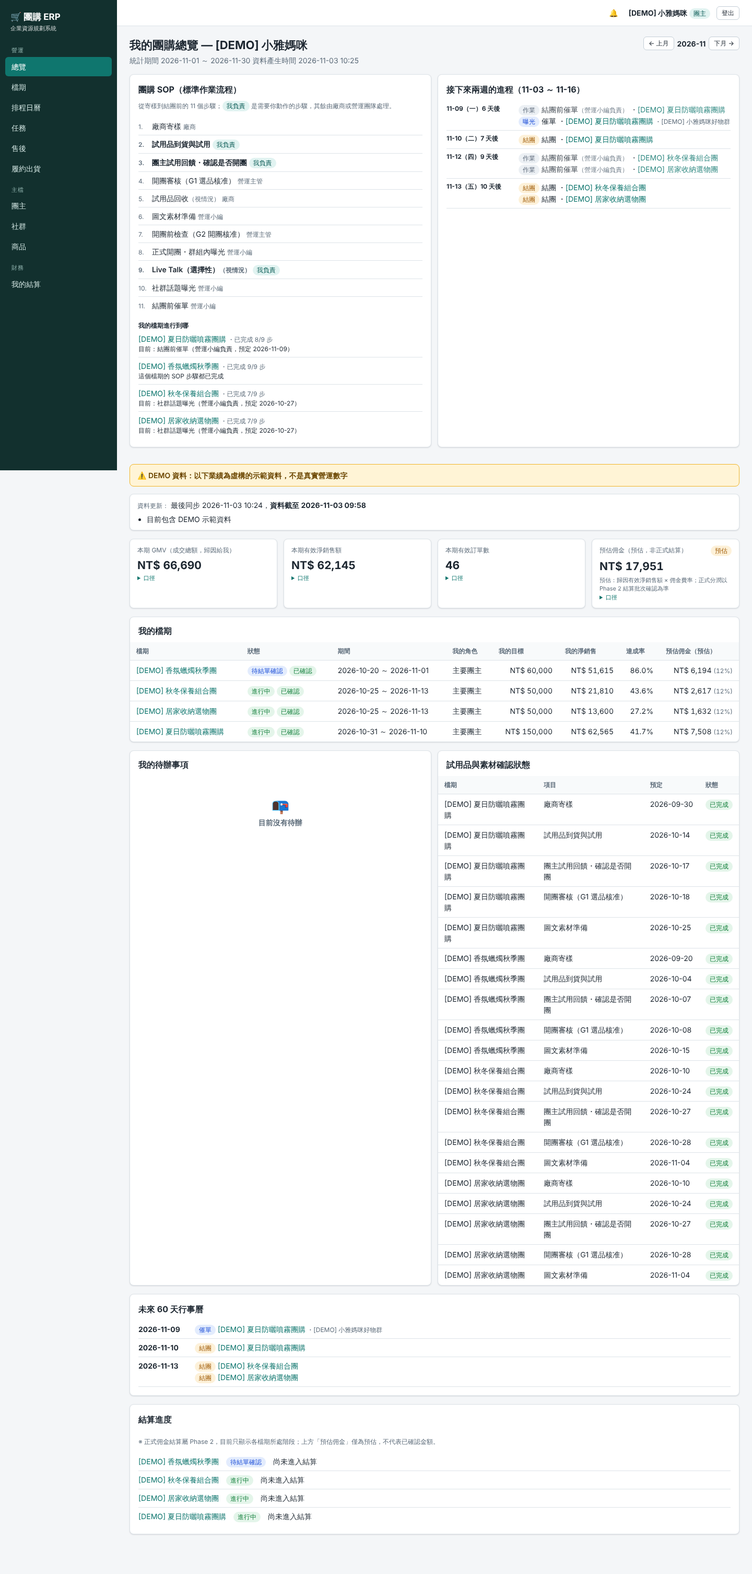
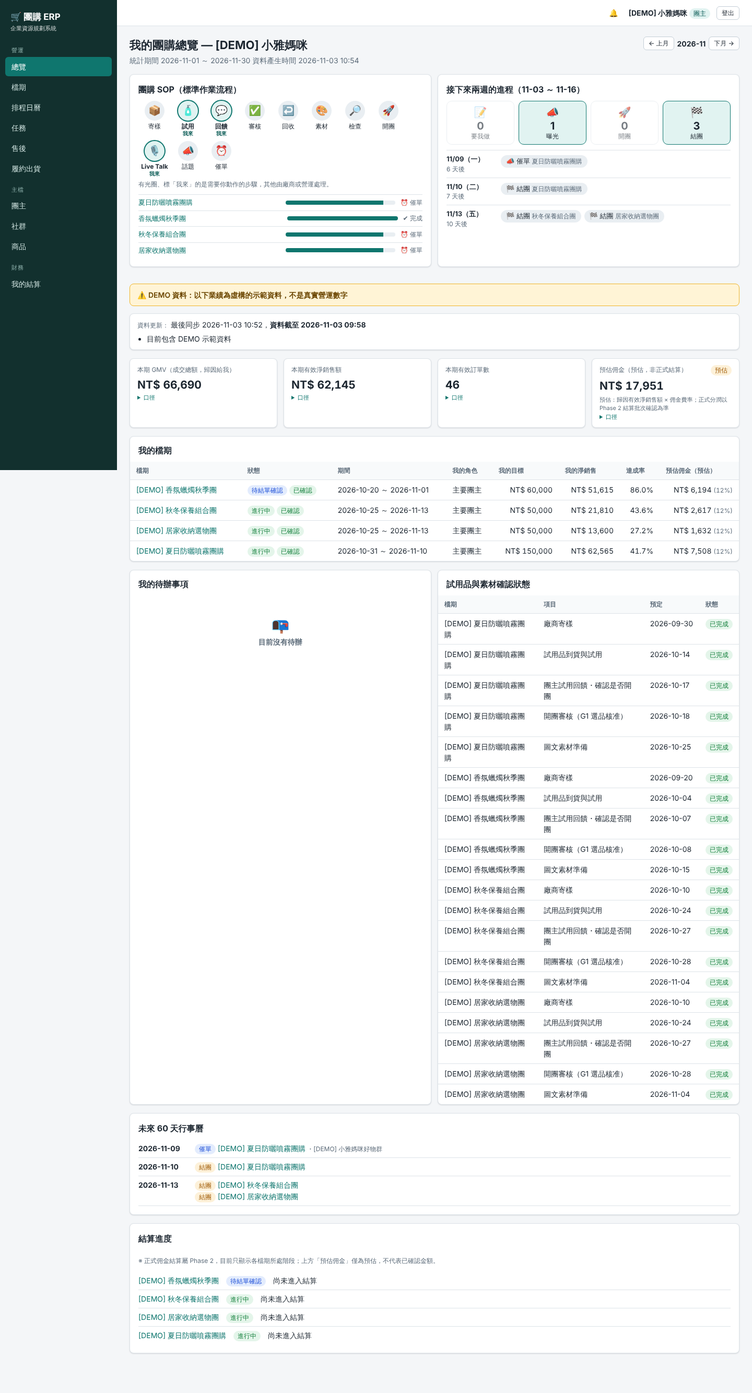
團主總覽最上方改為圖示化提醒
- SOP：11 步改為圖示流程，團主負責的步驟有光圈標「我來」，各檔期以進度條＋目前步驟圖示呈現
- 兩週進程：圖示計數（要我做／曝光／開團／結團）、逾期紅色警示、重要日期膠囊；廠商與營運負責的作業不再列出
- upcoming.items 帶 stepKey；SRS FR-DSH-13、開發紀錄同步
- 測試與突變驗證更新（6 種皆轉紅），E2E 136/136

Claude-Session: https://claude.ai/code/session_01YSzTHPcBVxK1Rqana44Uqa

diff --git a/src/app/(app)/dashboard/host/HostTop.tsx b/src/app/(app)/dashboard/host/HostTop.tsx
@@ -1,83 +1,104 @@
 import Link from 'next/link';
-import { Badge, Card, EmptyState, StatusBadge } from '@/ui/components';
-import { PLACEMENT_TYPE, TASK_STATUS, WEEKDAY, ownerRoleLabel } from '@/ui/labels';
+import { Card } from '@/ui/components';
+import { PLACEMENT_TYPE, WEEKDAY, ownerRoleLabel } from '@/ui/labels';
 import type { HostDash } from '@/ui/types';
+
+/** 步驟的圖示與短名稱（畫面上只放圖示＋兩三個字；完整名稱、說明與負責人放在滑鼠停留的提示）。沒收錄的步驟（自訂模板）用通用圖示與原名稱。 */
+const STEP_VIEW: Record<string, { icon: string; short: string }> = {
+  SAMPLE_SHIP: { icon: '📦', short: '寄樣' }, TRIAL_ARRIVAL: { icon: '🧴', short: '試用' }, TRIAL_FEEDBACK: { icon: '💬', short: '回饋' },
+  LAUNCH_APPROVAL: { icon: '✅', short: '審核' }, SAMPLE_RECOVERY: { icon: '↩', short: '回收' }, CREATIVE_ASSETS: { icon: '🎨', short: '素材' },
+  PRELAUNCH_CHECK: { icon: '🔎', short: '檢查' }, LAUNCH: { icon: '🚀', short: '開團' }, LIVE_TALK: { icon: '🎙', short: 'Live Talk' },
+  TOPIC_PROMO: { icon: '📣', short: '話題' }, CLOSING_REMINDER: { icon: '⏰', short: '催單' },
+};
+const stepView = (key: string, name: string) => STEP_VIEW[key] ?? { icon: '▫', short: name };
+
+const KIND = {
+  OPEN: { icon: '🚀', label: '開團' }, CLOSE: { icon: '🏁', label: '結團' }, PLACEMENT: { icon: '📣', label: '曝光' }, TASK: { icon: '📝', label: '要我做' },
+} as const;
 
 const dayMs = 86_400_000;
 const utc = (d: string) => Date.parse(`${d}T00:00:00Z`);
-/** 「今天／明天／後天／N 天後」＋星期；日期是台北時區的曆日，所以兩邊都用 UTC 午夜相減 */
+/** 「今天／明天／後天／N 天後」；日期是台北時區的曆日，所以兩邊都用 UTC 午夜相減 */
 export function relDay(date: string, today: string): string {
   const diff = Math.round((utc(date) - utc(today)) / dayMs);
-  const rel = diff === 0 ? '今天' : diff === 1 ? '明天' : diff === 2 ? '後天' : `${diff} 天後`;
-  return `${date.slice(5)}（${WEEKDAY[new Date(utc(date)).getUTCDay()]}）${rel}`;
+  return diff === 0 ? '今天' : diff === 1 ? '明天' : diff === 2 ? '後天' : `${diff} 天後`;
 }
-
-const KIND_TONE = { OPEN: 'ok', CLOSE: 'warn', PLACEMENT: 'info', TASK: 'neutral' } as const;
-const KIND_LABEL = { OPEN: '開團', CLOSE: '結團', PLACEMENT: '曝光', TASK: '作業' } as const;
+const shortDate = (date: string) => `${date.slice(5).replace('-', '/')}（${WEEKDAY[new Date(utc(date)).getUTCDay()]}）`;
+const shortTitle = (t: string) => t.replace(/^\[DEMO\]\s*/, '');
 
 /**
  * 團主總覽最上面的兩個區塊：① 團購 SOP（標準作業流程）② 接下來兩週的進程。
- * 只讀取 getHostDashboard 已算好的資料；SOP 只列到「結團前催單」（共 11 步），結算以後屬內部作業。
+ * 目的是「提醒」：圖示＋少量文字，只列團主要做的事與重要日期；細節留在下方的待辦與行事曆。
+ * 只讀取 getHostDashboard 已算好的資料。
  */
 export function HostTop({ d }: { d: Pick<HostDash, 'sop' | 'upcoming'> }) {
   const { sop, upcoming } = d;
   const byDate = new Map<string, typeof upcoming.items>();
   for (const i of upcoming.items) byDate.set(i.date, [...(byDate.get(i.date) ?? []), i]);
+  const count = (k: keyof typeof KIND) => upcoming.items.filter((i) => i.kind === k).length;
+  const nothing = upcoming.items.length === 0 && upcoming.overdue.length === 0;
   return (
     <div className="grid cols-2" style={{ marginBottom: 16 }} data-testid="host-top">
       <Card title="團購 SOP（標準作業流程）" testid="host-sop">
-        <p className="small muted" style={{ marginTop: 0 }}>從寄樣到結團前的 11 個步驟；<Badge tone="primary">我負責</Badge> 是需要你動作的步驟，其餘由廠商或營運團隊處理。</p>
-        {sop.steps.length === 0 ? <EmptyState title="尚未設定 SOP 流程" /> : (
-          <ol className="list-plain" style={{ paddingLeft: 0 }} data-testid="host-sop-steps">
-            {sop.steps.map((s, idx) => (
-              <li key={s.stepKey} data-testid={`sop-step-${s.stepKey}`} title={s.description ?? undefined} style={s.mine ? { fontWeight: 600 } : undefined}>
-                <span className="muted small" style={{ display: 'inline-block', width: 26 }}>{idx + 1}.</span>
-                {s.name}{s.optional ? <span className="muted small">（視情況）</span> : null}{' '}
-                {s.mine ? <Badge tone="primary">我負責</Badge> : <span className="muted small">{ownerRoleLabel(s.ownerRole)}</span>}
-              </li>
-            ))}
-          </ol>
-        )}
+        <div className="sop-flow" data-testid="host-sop-steps">
+          {sop.steps.map((s) => {
+            const v = stepView(s.stepKey, s.name);
+            return (
+              <div key={s.stepKey} className={`sop-node${s.mine ? ' mine' : ''}`} data-testid={`sop-step-${s.stepKey}`} title={`${s.name}（${ownerRoleLabel(s.ownerRole)}負責）${s.description ? `：${s.description}` : ''}`}>
+                <div className="ic" aria-hidden="true">{v.icon}</div>
+                <div className="nm">{v.short}</div>
+                {s.mine ? <div className="tag" data-testid={`sop-mine-${s.stepKey}`}>我來</div> : null}
+              </div>
+            );
+          })}
+        </div>
+        <p className="small muted" style={{ margin: '6px 0 0' }}>有光圈、標「我來」的是需要你動作的步驟，其他由廠商或營運處理。</p>
         {sop.progress.length ? (
           <div data-testid="host-sop-progress" style={{ marginTop: 10 }}>
-            <strong className="small">我的檔期進行到哪</strong>
-            <ul className="list-plain">
-              {sop.progress.map((p) => (
-                <li key={p.campaignId} data-testid={`sop-progress-${p.campaignId}`}>
-                  <Link href={`/campaigns/${p.campaignId}`}>{p.title}</Link>
-                  <span className="small muted"> ・已完成 {p.done}/{p.total} 步</span>
-                  <div className="small">{p.current ? <>目前：{p.current.name}（{ownerRoleLabel(p.current.ownerRole)}負責{p.current.plannedEnd ? `，預定 ${p.current.plannedEnd}` : ''}）</> : '這個檔期的 SOP 步驟都已完成'}</div>
-                </li>
-              ))}
-            </ul>
+            {sop.progress.map((p) => {
+              const cur = p.current ? stepView(p.current.stepKey, p.current.name) : null;
+              const pct = p.total ? Math.round((p.done / p.total) * 100) : 100;
+              return (
+                <div key={p.campaignId} className="sop-prog" data-testid={`sop-progress-${p.campaignId}`}>
+                  <Link href={`/campaigns/${p.campaignId}`} className="ttl">{shortTitle(p.title)}</Link>
+                  <div className="bar" role="progressbar" aria-valuenow={pct} aria-valuemin={0} aria-valuemax={100} aria-label={`${shortTitle(p.title)} 完成 ${p.done}/${p.total} 步`}><span style={{ width: `${pct}%` }} /></div>
+                  <span className="small muted nowrap">{cur ? `${cur.icon} ${cur.short}` : '✔ 完成'}</span>
+                </div>
+              );
+            })}
           </div>
         ) : null}
       </Card>
 
       <Card title={`接下來兩週的進程（${upcoming.from.slice(5)} ～ ${upcoming.to.slice(5)}）`} testid="host-next14">
+        <div className="next-count" data-testid="host-next14-counts">
+          {(['TASK', 'PLACEMENT', 'OPEN', 'CLOSE'] as const).map((k) => (
+            <div key={k} className={`nc${count(k) ? ' on' : ''}${k === 'TASK' && count(k) ? ' hot' : ''}`} data-testid={`next14-count-${k}`}>
+              <span className="ic" aria-hidden="true">{KIND[k].icon}</span><strong>{count(k)}</strong><span className="small">{KIND[k].label}</span>
+            </div>
+          ))}
+        </div>
         {upcoming.overdue.length ? (
-          <div data-testid="host-next14-overdue" style={{ marginBottom: 8 }}>
-            <Badge tone="danger">已逾期，請盡快處理</Badge>
-            <ul className="list-plain">
-              {upcoming.overdue.map((o, idx) => (
-                <li key={`${o.campaignId}${o.name}${idx}`}>{o.name}・<Link href={`/campaigns/${o.campaignId}`}>{o.campaignTitle}</Link> <span className="small muted">預定 {o.plannedEnd}</span></li>
-              ))}
-            </ul>
+          <div className="next-overdue" data-testid="host-next14-overdue">
+            <strong>⚠ 已逾期 {upcoming.overdue.length} 項，請盡快處理</strong>
+            <div>{upcoming.overdue.map((o, idx) => (
+              <Link key={`${o.campaignId}${o.name}${idx}`} href={`/campaigns/${o.campaignId}`} className="pill" title={`${o.campaignTitle}・預定 ${o.plannedEnd}`}>{o.name}</Link>
+            ))}</div>
           </div>
         ) : null}
-        {byDate.size === 0 ? <EmptyState title="接下來兩週沒有排定的事項" hint="有新的開團、曝光或作業排進來時，會顯示在這裡。" /> : (
+        {nothing ? <p className="next-empty" data-testid="host-next14-empty">✨ 這兩週沒有需要你處理的事</p> : (
           <div data-testid="host-next14-list">
             {[...byDate.entries()].map(([date, items]) => (
-              <div key={date} data-testid={`next14-${date}`} style={{ display: 'grid', gridTemplateColumns: '130px 1fr', gap: 8, padding: '6px 0', borderBottom: '1px solid var(--border)' }}>
-                <strong className="small">{relDay(date, upcoming.from)}</strong>
-                <div>{items.map((i, idx) => (
-                  <div key={idx} style={i.mine ? undefined : { opacity: 0.85 }}>
-                    <Badge tone={KIND_TONE[i.kind]}>{KIND_LABEL[i.kind]}</Badge>{' '}
-                    {i.kind === 'PLACEMENT' ? (PLACEMENT_TYPE[i.label] ?? i.label) : i.label}{i.kind === 'TASK' ? (i.mine ? <> <Badge tone="primary">我負責</Badge></> : <span className="muted small">（{ownerRoleLabel(i.ownerRole ?? '')}負責）</span>) : null}
-                    {i.kind === 'TASK' && i.status && i.status !== 'TODO' ? <> <StatusBadge map={TASK_STATUS} value={i.status} /></> : null}
-                    {' ・'}<Link href={`/campaigns/${i.campaignId}`}>{i.campaignTitle}</Link>{i.communityName ? <span className="muted small"> ・{i.communityName}</span> : null}
-                  </div>
-                ))}</div>
+              <div key={date} className="next-row" data-testid={`next14-${date}`}>
+                <div className="dt"><strong>{shortDate(date)}</strong><span className="small muted">{relDay(date, upcoming.from)}</span></div>
+                <div className="ev">{items.map((i, idx) => {
+                  const text = i.kind === 'PLACEMENT' ? (PLACEMENT_TYPE[i.label] ?? i.label) : i.kind === 'TASK' ? stepView(i.stepKey ?? '', i.label).short : i.label;
+                  return (
+                    <Link key={idx} href={`/campaigns/${i.campaignId}`} className={`pill ${i.kind === 'TASK' ? 'hot' : ''}`} title={`${i.label}・${i.campaignTitle}${i.communityName ? `・${i.communityName}` : ''}`}>
+                      <span aria-hidden="true">{KIND[i.kind].icon}</span> {text} <span className="muted small">{shortTitle(i.campaignTitle)}</span>
+                    </Link>
+                  );
+                })}</div>
               </div>
             ))}
           </div>

diff --git a/tests/dashboard-host-upcoming.test.ts b/tests/dashboard-host-upcoming.test.ts
@@ -27,8 +27,8 @@ beforeAll(async () => {
   h1 = (await mkHost(w, '團主一')).id; h2 = (await mkHost(w, '團主二')).id;
   comm1 = (await mkCommunity(w, [h1])).id;
   const products = [{ productId: p.id, skuId: p.skuIds[0] }];
-  // 近：兩週內有寄樣／試用／開團／結團
-  near = (await mkCampaign(w, v.id, { products, hosts: [{ hostId: h1 }], sampleReadyDate: dayOffset(0), openDate: dayOffset(8), closeDate: dayOffset(13) }, w.manager)).id;
+  // 近：兩週內有團主的試用／回饋作業，以及開團、結團（寄樣已過期、屬廠商）
+  near = (await mkCampaign(w, v.id, { products, hosts: [{ hostId: h1 }], sampleReadyDate: dayOffset(-14), openDate: dayOffset(8), closeDate: dayOffset(13) }, w.manager)).id;
   // 遠：所有日期都在兩週之後
   far = (await mkCampaign(w, v.id, { products, hosts: [{ hostId: h1 }], sampleReadyDate: dayOffset(40), openDate: dayOffset(60), closeDate: dayOffset(70) }, w.manager)).id;
   // 已逾期：試用品早就該到了、團主還沒回饋
@@ -84,25 +84,27 @@ describe('團主總覽最上面：接下來兩週的進程', () => {
     expect(ofNear.filter((i) => i.kind === 'PLACEMENT').map((i) => i.date)).toEqual([dayOffset(9)]);
     expect(u.items.some((i) => i.kind === 'PLACEMENT' && i.date === dayOffset(14))).toBe(false);
     // 作業：和資料庫裡的任務逐筆比對（未完成、預定完成日在視窗內）
-    const expected = (await taskRows(near)).filter((t) => t.phase <= 6 && OPEN.includes(t.status) && t.planned_end && t.planned_end >= today && t.planned_end <= u.to)
+    const expected = (await taskRows(near)).filter((t) => t.owner_role === 'HOST' && t.phase <= 6 && OPEN.includes(t.status) && t.planned_end && t.planned_end >= today && t.planned_end <= u.to)
       .map((t) => `${t.planned_end}|${t.name}`).sort();
     expect(expected.length).toBeGreaterThan(0);
     expect(ofNear.filter((i) => i.kind === 'TASK').map((i) => `${i.date}|${i.label}`).sort()).toEqual(expected);
     expect(u.items.some((i) => i.campaignId === far)).toBe(false);
   });
-  it('作業會標明誰負責：團主負責的 mine=true，廠商或營運負責的 mine=false', async () => {
-    const tasks = (await dash(host1)).upcoming.items.filter((i) => i.kind === 'TASK');
-    expect(tasks.length).toBeGreaterThan(0);
-    for (const t of tasks) expect(t.mine).toBe(t.ownerRole === 'HOST');
-    expect(tasks.some((t) => t.ownerRole !== 'HOST')).toBe(true);
+  it('作業只列團主自己負責的；廠商、營運負責的不列入（即使兩週內到期）', async () => {
+    const rows = await taskRows(near);
+    const u = (await dash(host1)).upcoming;
+    const others = rows.filter((t) => t.owner_role !== 'HOST' && OPEN.includes(t.status) && t.planned_end && t.planned_end >= today && t.planned_end <= u.to);
+    expect(others.length).toBeGreaterThan(0);   // 確認「別人負責、兩週內到期」的情境真的存在，下面的斷言才有意義
+    const tasks = u.items.filter((i) => i.kind === 'TASK');
+    for (const t of tasks) { expect(t.mine).toBe(true); expect(t.ownerRole).toBe('HOST'); }
+    for (const o of others) expect(tasks.map((t) => t.label)).not.toContain(o.name);
   });
   it('已完成的作業不再出現', async () => {
-    const before = (await dash(host1)).upcoming.items.filter((i) => i.campaignId === near && i.kind === 'TASK' && i.label === '廠商寄樣');
-    expect(before).toHaveLength(1);
-    await query(`UPDATE tasks SET status='DONE', completed_at=now() WHERE campaign_id=$1 AND step_key='SAMPLE_SHIP'`, [near]);
-    const after = (await dash(host1)).upcoming.items.filter((i) => i.campaignId === near && i.kind === 'TASK' && i.label === '廠商寄樣');
-    expect(after).toHaveLength(0);
-    await query(`UPDATE tasks SET status='TODO', completed_at=NULL WHERE campaign_id=$1 AND step_key='SAMPLE_SHIP'`, [near]);
+    const pick = async () => (await dash(host1)).upcoming.items.filter((i) => i.campaignId === near && i.kind === 'TASK' && i.label === '試用品到貨與試用');
+    expect(await pick()).toHaveLength(1);
+    await query(`UPDATE tasks SET status='DONE', completed_at=now() WHERE campaign_id=$1 AND step_key='TRIAL_ARRIVAL'`, [near]);
+    expect(await pick()).toHaveLength(0);
+    await query(`UPDATE tasks SET status='TODO', completed_at=NULL WHERE campaign_id=$1 AND step_key='TRIAL_ARRIVAL'`, [near]);
   });
   it('團主自己逾期未完成的作業另外列出；別人負責的逾期不算在團主頭上', async () => {
     const u = (await dash(host1)).upcoming;

diff --git a/src/app/globals.css b/src/app/globals.css
@@ -161,3 +161,25 @@ pre.diff { background: var(--surface-2); border: 1px solid var(--border); paddin
 .fit-dims { margin: 6px 0; padding: 0; list-style: none; } .fit-dims li { padding: 3px 0; font-size: 13px; border-bottom: 1px dashed var(--border); } .fit-dims li:last-child { border-bottom: 0; }
 .fit-detail summary { cursor: pointer; color: var(--primary); font-size: 12px; } .fit-detail { max-width: 460px; }
 .share-bar { height: 6px; background: var(--neutral-bg); border-radius: 3px; min-width: 60px; } .share-bar > span { display: block; height: 100%; background: var(--primary); border-radius: 3px; }
+
+/* 團主總覽最上方：SOP 圖示流程＋兩週提醒 */
+.sop-flow { display: flex; flex-wrap: wrap; gap: 8px 2px; }
+.sop-node { width: 62px; text-align: center; font-size: 12px; line-height: 1.25; cursor: default; }
+.sop-node .ic { width: 38px; height: 38px; border-radius: 50%; background: var(--neutral-bg); display: flex; align-items: center; justify-content: center; font-size: 19px; margin: 0 auto 3px; }
+.sop-node.mine .ic { background: var(--primary-l); box-shadow: 0 0 0 2px var(--primary); }
+.sop-node.mine .nm { font-weight: 700; }
+.sop-node .tag { font-size: 10px; font-weight: 700; color: var(--primary-d); }
+.sop-prog { display: grid; grid-template-columns: minmax(0, 1.3fr) minmax(0, 1fr) 64px; gap: 10px; align-items: center; padding: 5px 0; border-top: 1px solid var(--border); font-size: 13px; }
+.sop-prog .ttl { overflow: hidden; text-overflow: ellipsis; white-space: nowrap; }
+.sop-prog .bar { height: 8px; border-radius: 6px; background: var(--neutral-bg); overflow: hidden; } .sop-prog .bar span { display: block; height: 100%; background: var(--primary); }
+.next-count { display: grid; grid-template-columns: repeat(4, minmax(0, 1fr)); gap: 8px; margin-bottom: 10px; }
+.next-count .nc { display: flex; flex-direction: column; align-items: center; padding: 6px 4px; border: 1px solid var(--border); border-radius: 10px; opacity: .6; }
+.next-count .nc.on { opacity: 1; background: var(--primary-l); border-color: var(--primary); } .next-count .nc.hot { background: var(--warn-bg); border-color: #f0d28a; }
+.next-count .nc .ic { font-size: 20px; } .next-count .nc strong { font-size: 20px; line-height: 1.1; }
+.next-overdue { background: var(--danger-bg); color: var(--danger); border: 1px solid #f3b4ad; border-radius: 10px; padding: 8px 10px; margin-bottom: 10px; }
+.next-empty { text-align: center; color: var(--muted); padding: 18px 0; margin: 0; }
+.next-row { display: grid; grid-template-columns: 96px minmax(0, 1fr); gap: 8px; padding: 7px 0; border-top: 1px solid var(--border); }
+.next-row .dt { display: flex; flex-direction: column; font-size: 13px; }
+.pill { display: inline-block; margin: 2px 6px 2px 0; padding: 2px 10px; border-radius: 14px; background: var(--neutral-bg); color: var(--text); font-size: 13px; max-width: 100%; }
+.pill.hot { background: var(--warn-bg); color: var(--warn); font-weight: 600; } .pill:hover { text-decoration: none; filter: brightness(.96); }
+.next-overdue .pill { background: #fff; color: var(--danger); }

diff --git a/src/server/modules/dashboard.ts b/src/server/modules/dashboard.ts
@@ -334,16 +334,16 @@ export async function getHostDashboard(actor: Actor, hostIdParam?: string | null
       current: cur ? { stepKey: cur.step_key as string, name: cur.name as string, ownerRole: cur.owner_role as string, status: cur.status as string, plannedEnd: (cur.planned_end as string | null) ?? null } : null,
     };
   });
-  // 接下來兩週（今天起連續 14 天）：未完成的 SOP 任務（含非團主負責的，標明誰負責）＋曝光＋開團／結團；團主自己逾期的另列
+  // 接下來兩週（今天起連續 14 天）：團主自己負責且未完成的 SOP 作業＋曝光＋開團／結團（廠商、營運負責的作業不列，避免干擾）；團主自己逾期的另列
   const windowEnd = addDays(today, UPCOMING_DAYS - 1);
-  const upcoming: { date: string; kind: 'TASK' | 'PLACEMENT' | 'OPEN' | 'CLOSE'; label: string; campaignId: string; campaignTitle: string; ownerRole: string | null; mine: boolean; status: string | null; communityName: string | null }[] = [];
+  const upcoming: { date: string; kind: 'TASK' | 'PLACEMENT' | 'OPEN' | 'CLOSE'; label: string; stepKey: string | null; campaignId: string; campaignTitle: string; ownerRole: string | null; mine: boolean; status: string | null; communityName: string | null }[] = [];
   for (const r of sopRows) {
-    if (!OPEN_TASK.includes(r.status) || !r.planned_end || r.planned_end < today || r.planned_end > windowEnd) continue;
-    upcoming.push({ date: r.planned_end, kind: 'TASK', label: r.name, campaignId: r.campaign_id, campaignTitle: r.campaign_title, ownerRole: r.owner_role, mine: r.owner_role === 'HOST', status: r.status, communityName: null });
+    if (r.owner_role !== 'HOST' || !OPEN_TASK.includes(r.status) || !r.planned_end || r.planned_end < today || r.planned_end > windowEnd) continue;
+    upcoming.push({ date: r.planned_end, kind: 'TASK', label: r.name, stepKey: r.step_key, campaignId: r.campaign_id, campaignTitle: r.campaign_title, ownerRole: r.owner_role, mine: true, status: r.status, communityName: null });
   }
   for (const c of calendar) {
     if (c.date > windowEnd) continue;
-    upcoming.push({ date: c.date, kind: c.kind, label: c.label, campaignId: c.campaign_id, campaignTitle: c.campaign_title, ownerRole: null, mine: true, status: c.status, communityName: c.community_name });
+    upcoming.push({ date: c.date, kind: c.kind, label: c.label, stepKey: null, campaignId: c.campaign_id, campaignTitle: c.campaign_title, ownerRole: null, mine: true, status: c.status, communityName: c.community_name });
   }
   const kindOrder = { OPEN: 0, TASK: 1, PLACEMENT: 2, CLOSE: 3 } as const;
   upcoming.sort((a, b) => a.date.localeCompare(b.date) || kindOrder[a.kind] - kindOrder[b.kind] || a.label.localeCompare(b.label));

diff --git a/scripts/e2e-smoke.ts b/scripts/e2e-smoke.ts
@@ -490,8 +490,10 @@ async function main() {
         const myY = await page.getByTestId('my-campaigns').boundingBox().then((b) => b?.y ?? 0);
         record('團主 Dashboard 最上面有「團購 SOP（標準作業流程）」與「接下來兩週的進程」', (await page.getByTestId('host-sop').count()) === 1 && (await page.getByTestId('host-next14').count()) === 1 && /團購 SOP（標準作業流程）/.test(await page.getByTestId('host-sop').innerText()) && topY < myY && topY < 400, `top y=${Math.round(topY)}`);
         const steps = await page.locator('[data-testid^="sop-step-"]').count();
-        const mineBadges = await page.getByTestId('host-sop-steps').getByText('我負責').count();
-        record('SOP 列出 11 個步驟，團主負責的步驟標「我負責」，不含結算以後的內部步驟', steps === 11 && mineBadges >= 2 && (await page.locator('[data-testid="sop-step-VENDOR_SETTLE"]').count()) === 0, `${steps} 步、我負責 ${mineBadges}`);
+        const mineBadges = await page.locator('[data-testid^="sop-mine-"]').count();
+        record('SOP 以圖示列出 11 個步驟，團主負責的步驟標「我來」，不含結算以後的內部步驟', steps === 11 && mineBadges >= 2 && (await page.locator('[data-testid="sop-step-VENDOR_SETTLE"]').count()) === 0, `${steps} 步、我來 ${mineBadges}`);
+        const counts = await page.getByTestId('host-next14-counts').innerText();
+        record('兩週進程最上面是圖示計數（要我做／曝光／開團／結團）', (await page.locator('[data-testid^="next14-count-"]').count()) === 4 && /要我做/.test(counts) && /曝光/.test(counts) && /開團/.test(counts) && /結團/.test(counts), counts.replace(/\s+/g, ' '));
         const nxt = await page.getByTestId('host-next14').innerText();
         record('兩週進程標示日期範圍與「今天／明天／N 天後」', /接下來兩週的進程（\d\d-\d\d ～ \d\d-\d\d）/.test(nxt) && /(今天|明天|後天|\d+ 天後)/.test(nxt), nxt.slice(0, 80).replace(/\s+/g, ' '));
         record('兩週進程裡的曝光類型是中文，不是英文代碼', !/\b(LAUNCH|REMINDER|POST|STORY|TOPIC)\b/.test(nxt), nxt.match(/\b(LAUNCH|REMINDER|POST|STORY|TOPIC)\b/)?.[0] ?? '');

diff --git a/src/ui/types.ts b/src/ui/types.ts
@@ -47,7 +47,7 @@ export interface HostDash {
   };
   upcoming: {
     from: string; to: string; days: number;
-    items: { date: string; kind: 'TASK' | 'PLACEMENT' | 'OPEN' | 'CLOSE'; label: string; campaignId: string; campaignTitle: string; ownerRole: string | null; mine: boolean; status: string | null; communityName: string | null }[];
+    items: { date: string; kind: 'TASK' | 'PLACEMENT' | 'OPEN' | 'CLOSE'; label: string; stepKey: string | null; campaignId: string; campaignTitle: string; ownerRole: string | null; mine: boolean; status: string | null; communityName: string | null }[];
     overdue: { campaignId: string; campaignTitle: string; name: string; plannedEnd: string; status: string }[];
   };
 }

diff --git a/docs/spec/SRS.md b/docs/spec/SRS.md
@@ -603,7 +603,7 @@
 | FR-DSH-10 | KPI 可追溯：每個 KPI 隨回應帶來源與公式 | SHOULD | Given Dashboard 回應 Then 含 `kpiDefinitions`（程式已回傳於 `dashboard.ts`） | 沒有測試斷言 `kpiDefinitions` 或 KPI 的 `source`／`formula` 欄位 | PARTIAL | ADR-010 | ❌ |
 | FR-DSH-11 | 趨勢圖、預測、每日快取／結單快照 | COULD | （未實作；Dashboard 為即時查詢） | — | NOT_STARTED | KNOWN_ISSUES K20 | — |
 | FR-DSH-12 | 與一檔歷史結案數字的手工對帳 | MUST | （無真實歷史資料） | — | BLOCKED | KNOWN_ISSUES T4 | — |
-| FR-DSH-13 | 團主 Dashboard 最上方固定兩個區塊：① 團購 SOP（標準作業流程，寄樣→結團前催單共 11 步，團主負責的步驟標「我負責」，並顯示各檔期完成幾步／目前進行到哪一步）；② 接下來兩週（今天起連續 14 天）的進程：開團、結團、曝光與未完成的 SOP 作業（標明誰負責），團主自己逾期的另列。結算以後的內部步驟不列出；只讀，不改任何狀態 | SHOULD | Given 檔期有兩週內到期的作業 Then 出現在對應日期；兩週外、已完成、已婉拒檔期的不出現；他人負責的逾期不算在團主頭上 | dashboard-host-upcoming ›（9 項）；E2E | IMPLEMENTED | Owner 2026-11-03 要求 | ✅ |
+| FR-DSH-13 | 團主 Dashboard 最上方固定兩個「提醒型」區塊，以圖示＋少量文字呈現：① 團購 SOP（標準作業流程）：寄樣→結團前催單共 11 步的圖示流程，團主負責的步驟有光圈並標「我來」，並以進度條顯示各檔期完成幾步／目前進行到哪一步；② 接下來兩週（今天起連續 14 天）：要我做／曝光／開團／結團的圖示計數，只列團主自己負責的未完成作業、曝光、開團與結團日期，團主自己逾期的另列警示（廠商、營運負責的作業不列）。結算以後的內部步驟不列出；只讀，不改任何狀態 | SHOULD | Given 檔期有兩週內到期的作業 Then 團主負責的出現在對應日期、別人負責的不出現；兩週外、已完成、已婉拒檔期的不出現；他人負責的逾期不算在團主頭上 | dashboard-host-upcoming ›（9 項）；E2E | IMPLEMENTED | Owner 2026-11-03 要求（11-03 回饋：改圖示化、只做提醒） | ✅ |
 
 ### 4.9 COM 佣金規則與預估佣金
 

diff --git a/docs/DEVELOPMENT_LOG.md b/docs/DEVELOPMENT_LOG.md
@@ -297,6 +297,23 @@ Owner 要求：團主頁面最上面顯示 ① 團購的 SOP ② 接下來兩週
 - 順手修正上一輪遺留的 E2E 競態：試用資格調查「存檔後讀回」只等 networkidle 就重新載入，偶發讀不回；改成等儲存請求回應。
 - 發現並記錄：草稿（DRAFT）檔期本來就不會出現在團主總覽（與「我的檔期」一致），所以測試先把檔期設為已排程。
 
+## 2026-11-03｜團主總覽最上方改為圖示化提醒（分支 `feat/host-top-icons`）
+
+### 目標
+Owner 看過上線版（快照站已是最新）後回饋：「要變成圖示化，重點是要提醒團主，不需要這麼詳細」。
+
+### 變更
+- SOP：11 步改成圖示流程（📦寄樣、🧴試用、💬回饋、✅審核…），畫面只放圖示與兩三個字，完整名稱／說明／負責人放在滑鼠停留提示；團主負責的步驟有光圈並標「我來」；各檔期改成進度條＋目前步驟圖示。
+- 兩週進程：最上面是四個圖示計數（📝要我做、📣曝光、🚀開團、🏁結團）；逾期獨立紅色警示；下方只列重要日期，每項是一顆圖示膠囊；沒事時顯示「✨ 這兩週沒有需要你處理的事」。
+- **取捨**：廠商、營運負責的作業**不再列在兩週清單**（這是減少干擾的主要來源；SRS FR-DSH-13 同步改寫）。如需要可再加回來。
+- `upcoming.items` 的 TASK 只含團主負責的作業，並帶 `stepKey`（供前端選圖示）。
+
+### 證據
+- 全套 vitest 34 檔 616 項通過；`tsc`、`eslint`、`next build` 乾淨；E2E 136/136（重設資料庫並灌入全部種子；新增「圖示計數」檢查、SOP 改驗「我來」標記）。
+- 突變驗證（規則 7）：列入非團主作業、視窗多一天、SOP 含內部結算、已完成也列入、逾期含別人負責、曝光不限兩週——6 種都讓測試變紅。
+- 看過截圖（`docs/uat/screens/36-host-sop-next2weeks.png`）；最後一個 CSS 小調整（進度條右側欄位固定寬度）未重截圖。
+- 限制：示範團主目前兩週內沒有「要我做」的作業，所以該計數為 0；日後有排進來才會變色提醒。
+
 ## 後續紀錄格式
 
 每次變更新增一節，至少包含：
